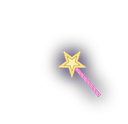
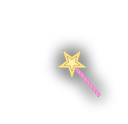
Add files via upload

diff --git a/sparkles.js b/sparkles.js
@@ -1,0 +1,44 @@
+/* gentle white sparkle trail that follows the cursor.
+   The native wand cursor stays; these are just soft sparkles behind it. */
+(function(){
+  if (window.matchMedia && window.matchMedia('(pointer: coarse)').matches) return; // skip touch
+  const canvas=document.createElement('canvas');
+  canvas.style.cssText='position:fixed;inset:0;pointer-events:none;z-index:9998;';
+  document.body.appendChild(canvas);
+  const ctx=canvas.getContext('2d');
+  let W,H;
+  function resize(){ W=canvas.width=innerWidth; H=canvas.height=innerHeight; }
+  resize(); addEventListener('resize',resize);
+  const parts=[]; let last=0;
+  addEventListener('mousemove',e=>{
+    const now=Date.now();
+    if(now-last < 28) return;      // throttle so it's not overbearing
+    last=now;
+    parts.push({x:e.clientX, y:e.clientY,
+      vx:(Math.random()*0.8-0.4), vy:(Math.random()*0.8-0.2),
+      life:1, size:Math.random()*2.2+1.2,
+      rot:Math.random()*Math.PI});
+  });
+  function star(x,y,r,rot,a){
+    ctx.save(); ctx.translate(x,y); ctx.rotate(rot);
+    ctx.beginPath();
+    for(let i=0;i<4;i++){ // 4-point sparkle
+      ctx.lineTo(0,-r); ctx.lineTo(r*0.25,-r*0.25);
+      ctx.rotate(Math.PI/2);
+    }
+    ctx.closePath();
+    ctx.fillStyle=`rgba(255,255,255,${a})`;
+    ctx.shadowBlur=6; ctx.shadowColor=`rgba(255,255,255,${a})`;
+    ctx.fill(); ctx.restore();
+  }
+  function tick(){
+    ctx.clearRect(0,0,W,H);
+    for(let i=parts.length-1;i>=0;i--){
+      const p=parts[i]; p.x+=p.vx; p.y+=p.vy; p.life-=0.04;
+      if(p.life<=0){ parts.splice(i,1); continue; }
+      star(p.x,p.y,p.size*(0.6+p.life), p.rot, p.life*0.8);
+    }
+    requestAnimationFrame(tick);
+  }
+  tick();
+})();

diff --git a/contact.html b/contact.html
@@ -21,13 +21,8 @@
         write to me and it lands straight in my inbox ✦
       </p>
 
-      <!-- ===== ACTIVATE THIS FORM (one-time, free, ~2 min) =====
-           1. Go to https://formspree.io and sign up (free) with [email redacted]
-           2. Create a new form. It gives you a form ID like "xyzabcd".
-           3. Replace YOUR_FORM_ID below with that ID.
-           Until you do this, the form button below won't deliver — but the
-           "email me directly" button underneath always works. -->
-      <form action="https://formspree.io/f/YOUR_FORM_ID" method="POST" class="contact-form">
+      <!-- Connected to Formspree — messages go to [email redacted] -->
+      <form action="https://formspree.io/f/mdaraweb" method="POST" class="contact-form">
         <label>your name
           <input type="text" name="name" required>
         </label>
@@ -59,5 +54,6 @@
 
     <p class="footer">made with love ✦ malena kingston</p>
   </div>
+  <script src="sparkles.js"></script>
 </body>
 </html>

diff --git a/style.css b/style.css
@@ -80,9 +80,7 @@ html:active, body:active, a:active, .doodle:active {
   width: 270px; max-width: 60%; z-index: 2; text-align: center;
 }
 .mascot img { width: 100%; height: auto; border-radius: 50%;
-  box-shadow: 0 0 0 6px rgba(255,255,255,0.7),
-              0 0 22px 8px rgba(226,61,151,0.35),
-              0 8px 20px rgba(90,78,160,0.35); }
+  box-shadow: 0 6px 18px rgba(90,78,160,0.28); }
 .ph-big {
   width: 230px; height: 230px; margin: 0 auto;
   border: 3px dashed var(--pink); border-radius: 50%;

diff --git a/archive.html b/archive.html
@@ -19,5 +19,6 @@
     </div>
     <p class="footer">made with love ✦ malena kingston</p>
   </div>
+  <script src="sparkles.js"></script>
 </body>
 </html>

diff --git a/blog.html b/blog.html
@@ -26,5 +26,6 @@
     </div>
     <p class="footer">made with love ✦ malena kingston</p>
   </div>
+  <script src="sparkles.js"></script>
 </body>
 </html>

diff --git a/index.html b/index.html
@@ -81,5 +81,6 @@
     const audio=document.getElementById('bg-music'),btn=document.getElementById('music-toggle');
     btn.addEventListener('click',()=>{ if(audio.paused){audio.play().catch(()=>{});btn.textContent='♪ pause music';}else{audio.pause();btn.textContent='♪ play music';}});
   </script>
+  <script src="sparkles.js"></script>
 </body>
 </html>

diff --git a/music.html b/music.html
@@ -19,5 +19,6 @@
     </div>
     <p class="footer">made with love ✦ malena kingston</p>
   </div>
+  <script src="sparkles.js"></script>
 </body>
 </html>

diff --git a/shows.html b/shows.html
@@ -26,5 +26,6 @@
     </div>
     <p class="footer">made with love ✦ malena kingston</p>
   </div>
+  <script src="sparkles.js"></script>
 </body>
 </html>